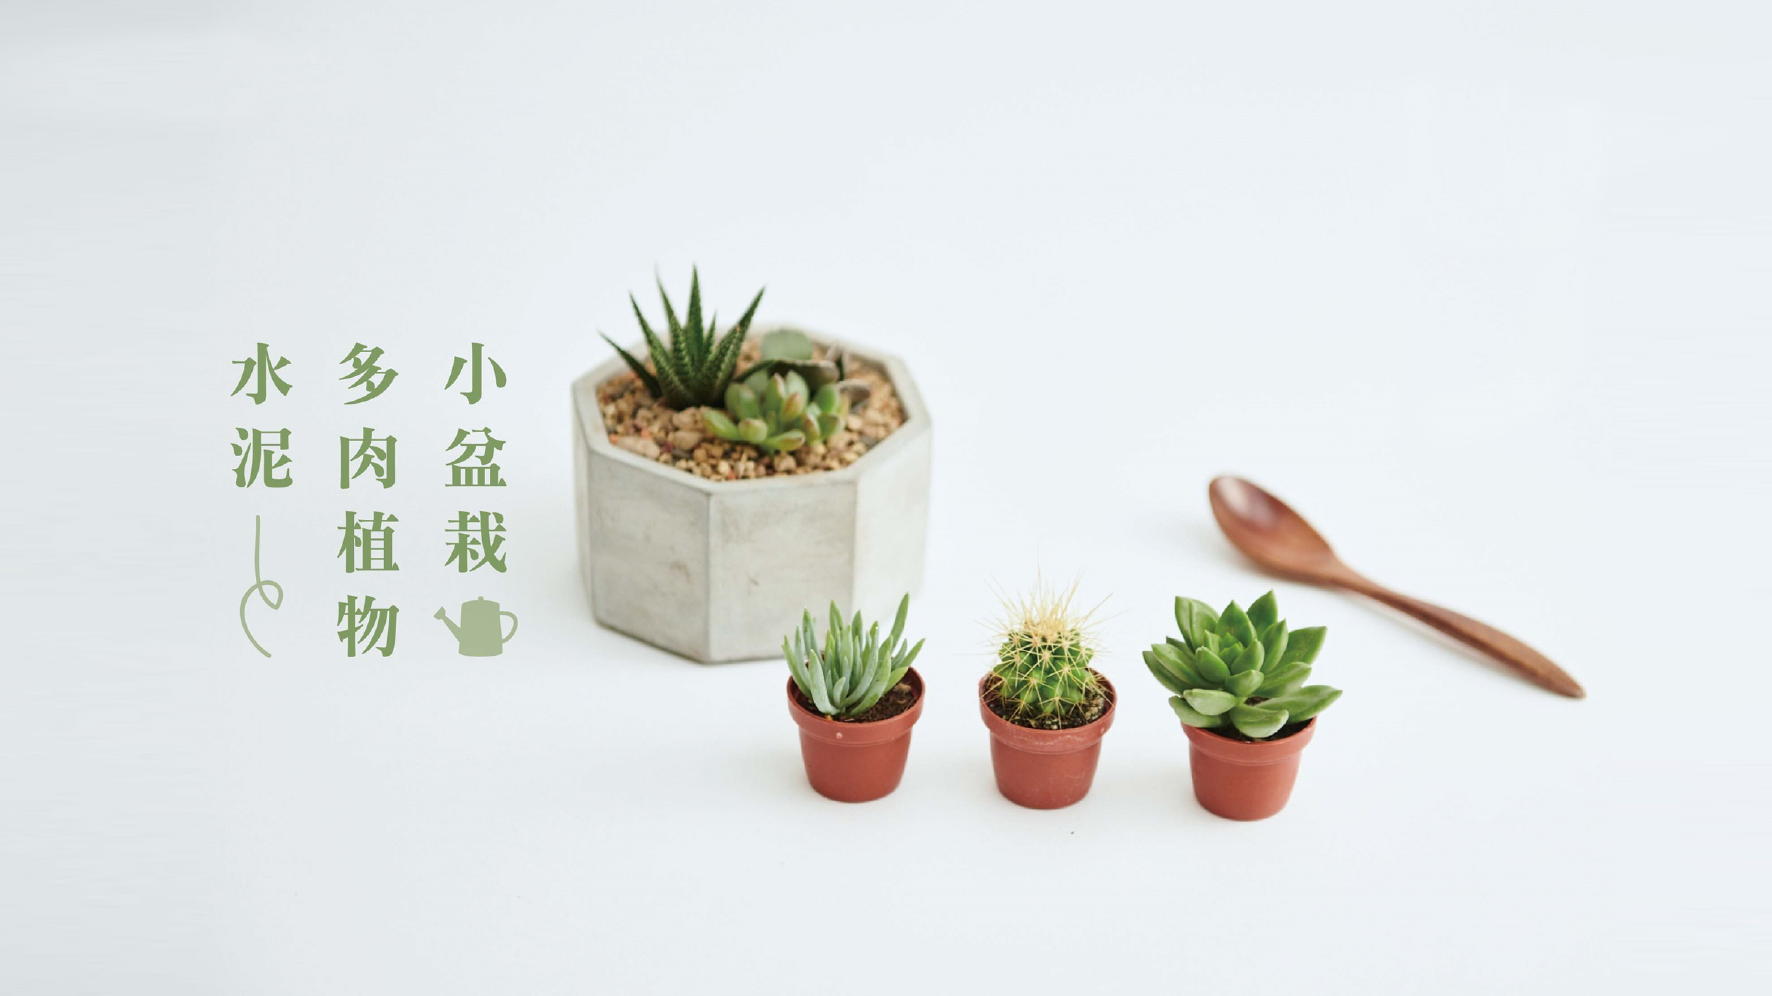
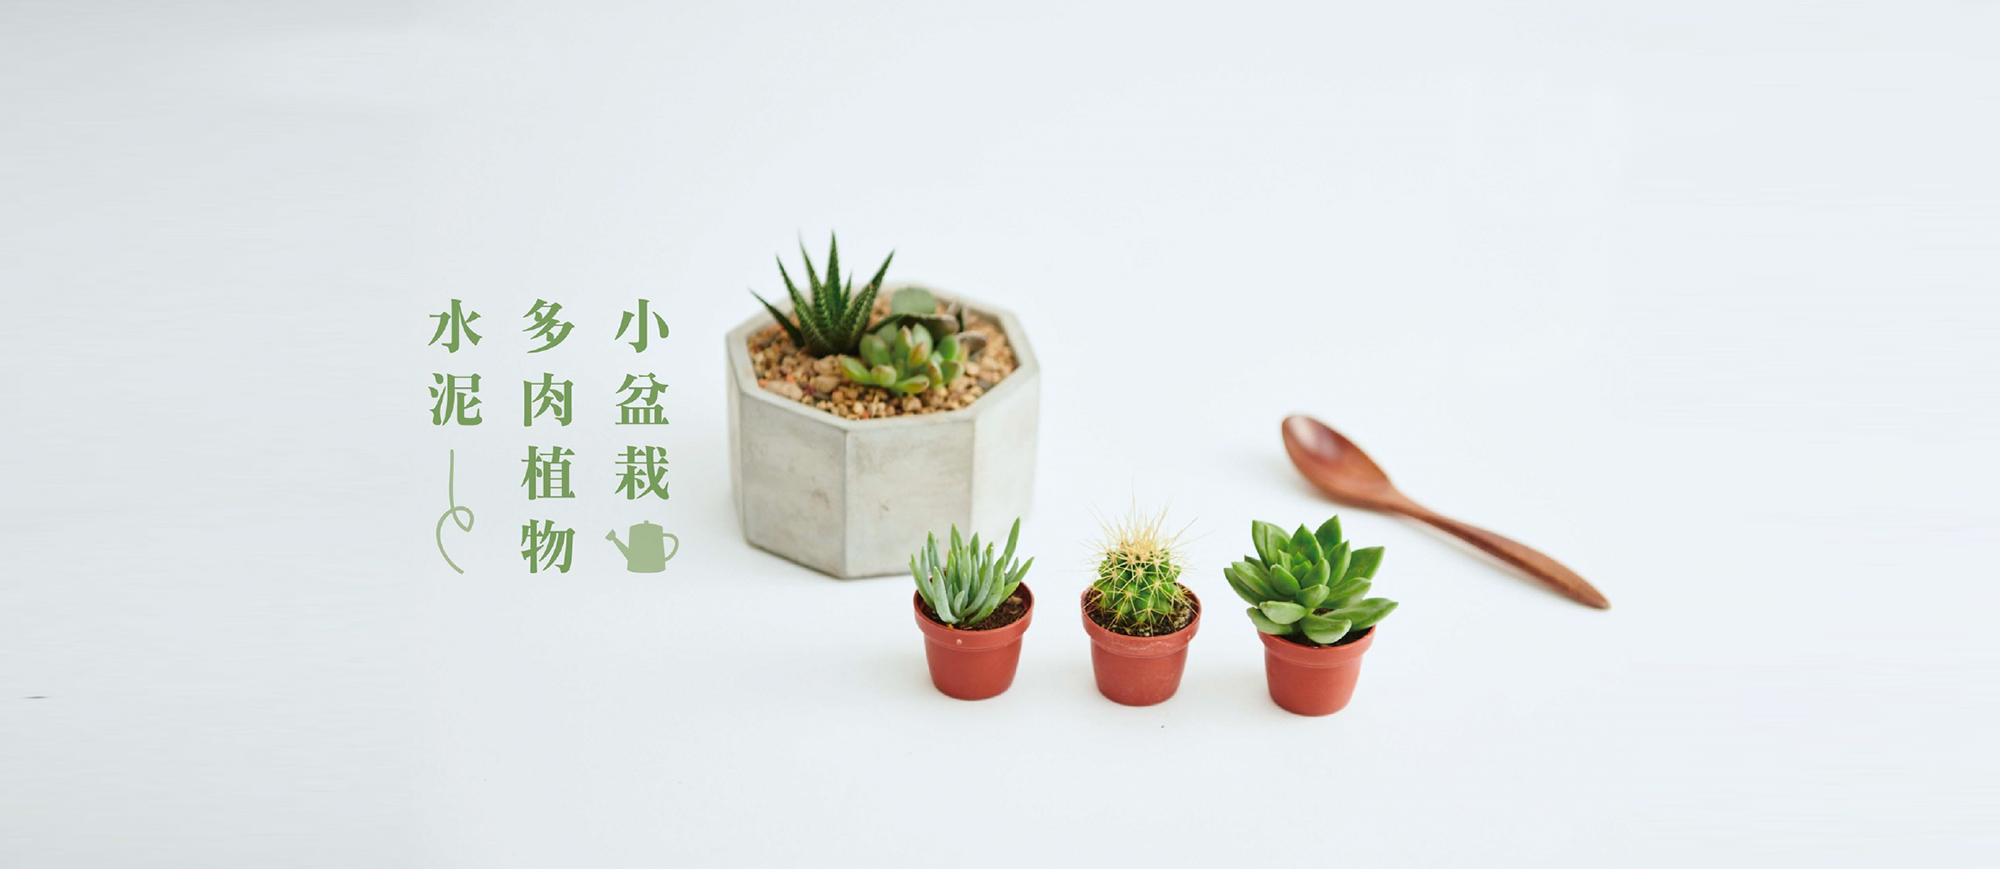
小修改

Changed region(s): [[0.1242, 0.2796, 0.9001, 0.8389], [0.1242, 0.5593, 0.1552, 0.6214]]

diff --git a/font/css/style.css b/font/css/style.css
@@ -963,8 +963,12 @@ table {
   border-bottom: 2px solid;
 }
 
-.shop_banner img {
-  height: 75vh;
+.shop_banner {
+  background-image: url(../img/shop/product_kv1.png);
+  background-size: cover;
+  background-position: center;
+  height: 65vh;
+  background-repeat: no-repeat;
 }
 
 .shop_note {
@@ -1011,10 +1015,6 @@ table {
   width: 250px;
 }
 
-.shop_mainfilter a:hover {
-  background-color: #efefef;
-}
-
 .shop_mainfilter img {
   width: 80px;
 }
@@ -1058,7 +1058,7 @@ table {
   font-size: 1.6rem;
 }
 
-form {
+.shop_otherfilter form {
   float: right;
 }
 
@@ -1502,12 +1502,6 @@ table {
   border-bottom: 2px solid;
 }
 
-.recommend {
-  background-image: url(../img/background.png);
-  background-position: center 0;
-  background-size: cover;
-}
-
 .product_up {
   display: flex;
   justify-content: center;
@@ -1521,12 +1515,13 @@ table {
 
 .product_left_simg {
   display: flex;
-  justify-content: center;
-  align-items: center;
-  justify-content: space-around;
 }
 
-.product_left_simg_smpic img {
+.product_left_simg_smpic {
+  margin-right: 40px;
+}
+
+.product_left_simg img {
   cursor: pointer;
 }
 
@@ -1721,9 +1716,15 @@ table {
   color: #d9a420;
 }
 
+.recommend {
+  background-image: url(../img/product/shop_hot_bg.png);
+  background-position: center 0;
+}
+
 .product_other h2 {
   text-align: left;
   font-size: 2.6rem;
+  padding-bottom: 20px;
 }
 
 .product_other_hot {

diff --git a/font/sass/_product.scss b/font/sass/_product.scss
@@ -36,12 +36,6 @@
   border-bottom: 2px solid;
 }
 
-.recommend {
-  background-image: url(../img/background.png);
-  background-position: center 0;
-  background-size: cover;
-}
-
 // 開始
 .product_up {
   @include flex() {
@@ -52,12 +46,14 @@
 .product_left {
   width: 50%;
   &_simg {
-    @include flex() {
-      justify-content: space-around;
-      &_smpic img {
-        cursor: pointer;
-      }
+    display: flex;
+    &_smpic {
+      margin-right: 40px;
     }
+    img {
+      cursor: pointer;
+    }
+    // }
   }
 }
 
@@ -172,6 +168,7 @@
   text-align: center;
 }
 
+// 按鈕寬度100%
 .lie {
   width: 100%;
 }
@@ -236,10 +233,17 @@
   }
 }
 
+// 推薦商品背景
+.recommend {
+  background-image: url(../img/product/shop_hot_bg.png);
+  background-position: center 0;
+}
+
 .product_other {
   h2 {
     text-align: left;
     font-size: map-get($fontsize, "big");
+    padding-bottom: 20px;
   }
   &_hot {
     @include flex;

diff --git a/font/shop.html b/font/shop.html
@@ -24,7 +24,7 @@
 
       <!-- 產品輪播banner -->
       <div class="shop_banner">
-        <img src="./img/shop/product_kv.png" alt="多肉植物banner" />
+        <!-- <img src="./img/shop/product_kv.png" alt="多肉植物banner" /> -->
       </div>
 
       <!-- 麵包屑 -->
@@ -41,7 +41,7 @@
       <!-- 篩選 -->
       <article class="shop_filterbox">
         <ul class="shop_mainfilter">
-          <li><a class="btn -shop_click"  href="#">全部商品</a></li>
+          <li><a class="btn -shop-click"  href="#">全部商品</a></li>
           <li ><a class="btn" href="#">多肉專區<img src="./img/shop/plant_01.png" alt=""></a></li>
           <li ><a class="btn" href="#">裝飾配件<img src="./img/shop/house_2.png" alt=""></a></li>
           <li ><a class="btn" href="#">盆栽器皿<img src="./img/shop/basin.png" alt=""></a></li>

diff --git a/font/sass/_shop.scss b/font/sass/_shop.scss
@@ -35,12 +35,13 @@
 
 // 開始
 .shop_banner {
-  img {
-    // height: 75vh;
-    // @include pad() {
-    display: none;
-    // }
-  }
+  background-image: url(../img/shop/product_kv1.png);
+  background-size: cover;
+  background-position: center;
+  height: 65vh;
+  // height: 500px;
+  // width: auto;
+  background-repeat: no-repeat;
 }
 
 .shop_note {
@@ -80,9 +81,6 @@
     font-size: map-get($fontsize, "big");
     border: 1px solid #ccc;
     width: 250px;
-    &:hover {
-      background-color: map-get($color, "gray2");
-    }
   }
   img {
     width: 80px;
